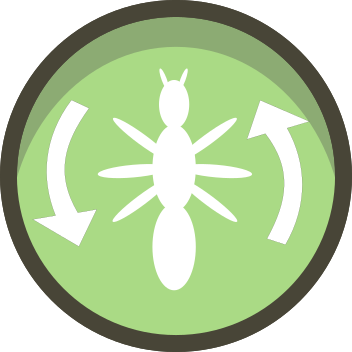
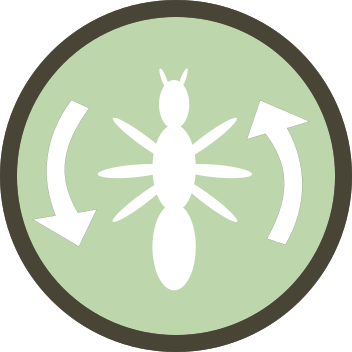
added insect switch button to gamescreen

diff --git a/core/src/com/gstrzal/insects/hud/Controller.java b/core/src/com/gstrzal/insects/hud/Controller.java
@@ -29,6 +29,7 @@ public class Controller {
     private boolean rightPressed;
     private boolean leftPressed;
     private boolean actionPressed;
+    private boolean insectSwitchPressed;
 
 
     OrthographicCamera camera;
@@ -47,6 +48,8 @@ public class Controller {
     private Texture controlsButtonTexture;
     private Texture controlsButtonPressedTexture;
     private Texture controlsButtonCheckedTexture;
+    private Texture insectSwitchButtonTexture;
+    private Texture insectSwitchButtonPressedTexture;
     private AssetManager assetManager;
 
 
@@ -103,20 +106,17 @@ public class Controller {
                 new TextureRegionDrawable(new TextureRegion(soundCheckedTexture)));
         soundBtn.setPosition(BACK_BUTTON_X - BUTTON_PADDING , BACK_BUTTON_Y);
         soundBtn.setSize(BUTTON_SIZE, BUTTON_SIZE);
-
         soundBtn.addListener(new ActorGestureListener() {
             @Override
             public void tap(InputEvent event, float x, float y, int count,
                             int button) {
                 super.tap(event, x, y, count, button);
                 insects.setAudioOn(!insects.isAudioOn());
-
             }
         });
         if(!insects.isAudioOn()) {
             soundBtn.setChecked(true);
         }
-
         stage.addActor(soundBtn);
 
         //Controls Button
@@ -129,7 +129,6 @@ public class Controller {
                 new TextureRegionDrawable(new TextureRegion(controlsButtonCheckedTexture)));
         controlsBtn.setPosition(BACK_BUTTON_X - (BUTTON_PADDING * 2), BACK_BUTTON_Y);
         controlsBtn.setSize(BUTTON_SIZE,BUTTON_SIZE);
-
         controlsBtn.addListener(new ActorGestureListener() {
             @Override
             public void tap(InputEvent event, float x, float y, int count, int button) {
@@ -142,6 +141,24 @@ public class Controller {
         }
         stage.addActor(controlsBtn);
 
+
+
+        //Insect Switch Button
+        insectSwitchButtonTexture = assetManager.get(Constants.CONTROLLER_INSECT_SWITCH);
+        insectSwitchButtonPressedTexture = assetManager.get(Constants.CONTROLLER_INSECT_SWITCH_PRESSED);
+        ImageButton insectSwitchBtn = new ImageButton(
+                new TextureRegionDrawable(new TextureRegion(insectSwitchButtonTexture)),
+                new TextureRegionDrawable(new TextureRegion(insectSwitchButtonPressedTexture)));
+        insectSwitchBtn.setPosition(50, BACK_BUTTON_Y - BUTTON_SIZE);
+        insectSwitchBtn.setSize(BUTTON_SIZE*2,BUTTON_SIZE*2);
+        insectSwitchBtn.addListener(new ActorGestureListener() {
+            @Override
+            public void tap(InputEvent event, float x, float y, int count, int button) {
+                super.tap(event, x, y, count, button);
+                insectSwitchPressed = true;
+            }
+        });
+        stage.addActor(insectSwitchBtn);
 
 
         //Right Button
@@ -242,5 +259,13 @@ public class Controller {
 
     public void setActionPressed(boolean actionPressed) {
         this.actionPressed = actionPressed;
+    }
+
+    public boolean isInsectSwitchPressed() {
+        return insectSwitchPressed;
+    }
+
+    public void setInsectSwitchPressed(boolean insectSwitchPressed) {
+        this.insectSwitchPressed = insectSwitchPressed;
     }
 }

diff --git a/core/src/com/gstrzal/insects/screens/GameScreen.java b/core/src/com/gstrzal/insects/screens/GameScreen.java
@@ -61,6 +61,7 @@ public class GameScreen implements Screen{
 
 
     private boolean isDirectionRight = true;
+    private boolean characterChange;
 
     private float xVelocity = 1f;
     private float gravity = -10f;
@@ -178,13 +179,13 @@ public class GameScreen implements Screen{
             insectPlayer.b2body.setLinearVelocity(-xVelocity, insectPlayer.b2body.getLinearVelocity().y);
         }
 
-        if(isDirectionUp && worldContactListener.isOnGrounds()){
+        if(isDirectionUp && worldContactListener.isOnGrounds() && insectPlayer instanceof LBug){
             insectPlayer.b2body.applyForceToCenter(0,jumpSpeed,true);
             isDirectionUp = false;
         }
 
         if (Gdx.input.isKeyJustPressed(Input.Keys.UP)){
-            if(worldContactListener.isOnGrounds()){
+            if(worldContactListener.isOnGrounds() && insectPlayer instanceof LBug){
                 isDirectionUp = true;
             }
         }
@@ -195,19 +196,28 @@ public class GameScreen implements Screen{
             isDirectionRight = false;
         }
 
-
         //Character Change
         if (Gdx.input.isKeyJustPressed(Input.Keys.ENTER)){
+            if(worldContactListener.isOnGrounds()) {
+                characterChange = true;
+            }
+        }
+
+
+        //Character Change
+        if (characterChange) {
             Insect tempInsc = insectPlayer;
-            if(tempInsc instanceof LBug) {
+            if (tempInsc instanceof LBug) {
                 insectPlayer = new Ant(world, (Texture) assetManager.get(Constants.ANT),
                         tempInsc.b2body.getPosition().x, tempInsc.b2body.getPosition().y);
-            }else{
+            } else {
                 insectPlayer = new LBug(world, (Texture) assetManager.get(Constants.JOANINHA),
                         tempInsc.b2body.getPosition().x, tempInsc.b2body.getPosition().y);
             }
             tempInsc.dispose();
+            characterChange = false;
         }
+
 
         //Touch
         if(controller.isRightPressed()){
@@ -217,12 +227,17 @@ public class GameScreen implements Screen{
             isDirectionRight = false;
             controller.setLeftPressed(false);
         }
-
         if(controller.isActionPressed()){
-            if(worldContactListener.isOnGrounds()){
+            if(worldContactListener.isOnGrounds() && insectPlayer instanceof LBug){
                 isDirectionUp = true;
             }
             controller.setActionPressed(false);
+        }
+        if(controller.isInsectSwitchPressed()){
+            if(worldContactListener.isOnGrounds()) {
+                characterChange = true;
+            }
+            controller.setInsectSwitchPressed(false);
         }
 
         //Turn debugGrid on/of

diff --git a/core/src/com/gstrzal/insects/screens/LoadingScreen.java b/core/src/com/gstrzal/insects/screens/LoadingScreen.java
@@ -75,6 +75,8 @@ public class LoadingScreen extends ScreenAdapter{
         assetManager.load(Constants.CONTROLLER_CONTROLS, Texture.class);
         assetManager.load(Constants.CONTROLLER_CONTROLS_PRESSED, Texture.class);
         assetManager.load(Constants.CONTROLLER_CONTROLS_CHECKED, Texture.class);
+        assetManager.load(Constants.CONTROLLER_INSECT_SWITCH, Texture.class);
+        assetManager.load(Constants.CONTROLLER_INSECT_SWITCH_PRESSED, Texture.class);
         assetManager.load(Constants.GAME_FONT, BitmapFont.class);
         assetManager.load(Constants.LEVEL_1, TiledMap.class);
         assetManager.load(Constants.LEVEL_2, TiledMap.class);

diff --git a/core/src/com/gstrzal/insects/config/Constants.java b/core/src/com/gstrzal/insects/config/Constants.java
@@ -34,6 +34,10 @@ public class Constants {
     public static final String CONTROLLER_CONTROLS = "menu/button_controls_352x352.png";
     public static final String CONTROLLER_CONTROLS_PRESSED = "menu/button_controls_pressed_352x352.png";
     public static final String CONTROLLER_CONTROLS_CHECKED = "menu/button_options_checked_352x352.png";
+    public static final String CONTROLLER_INSECT_SWITCH = "menu/button_switch_352x352.png";
+    public static final String CONTROLLER_INSECT_SWITCH_PRESSED = "menu/button_switch_pressed_352x352.png";
+
+
 
     //Audios
     public static final String AUDIO_001 = "audio/audio_001.wav";

diff --git a/core/src/com/gstrzal/insects/entity/Ant.java b/core/src/com/gstrzal/insects/entity/Ant.java
@@ -90,6 +90,15 @@ public class Ant extends Insect {
         fdef.shape = shape;
         b2body.createFixture(fdef).setUserData(Constants.INSECT_BODY);
 
+
+        //Base Sensor
+        PolygonShape shape2 = new PolygonShape();
+        shape2.setAsBox(50/ Insects.PPM ,16/ Insects.PPM , new Vector2(0,-100/ Insects.PPM),0);
+        fdef.shape = shape2;
+        fdef.isSensor = true;
+        fdef.filter.categoryBits = Insects.BASE_BIT;
+        fdef.filter.maskBits = Insects.BRICK_BIT | Insects.FLOWER_BIT | Insects.PASS_BLOCK_BIT;
+        b2body.createFixture(fdef).setUserData(Constants.INSECT_BASE);
     }
 
 }
